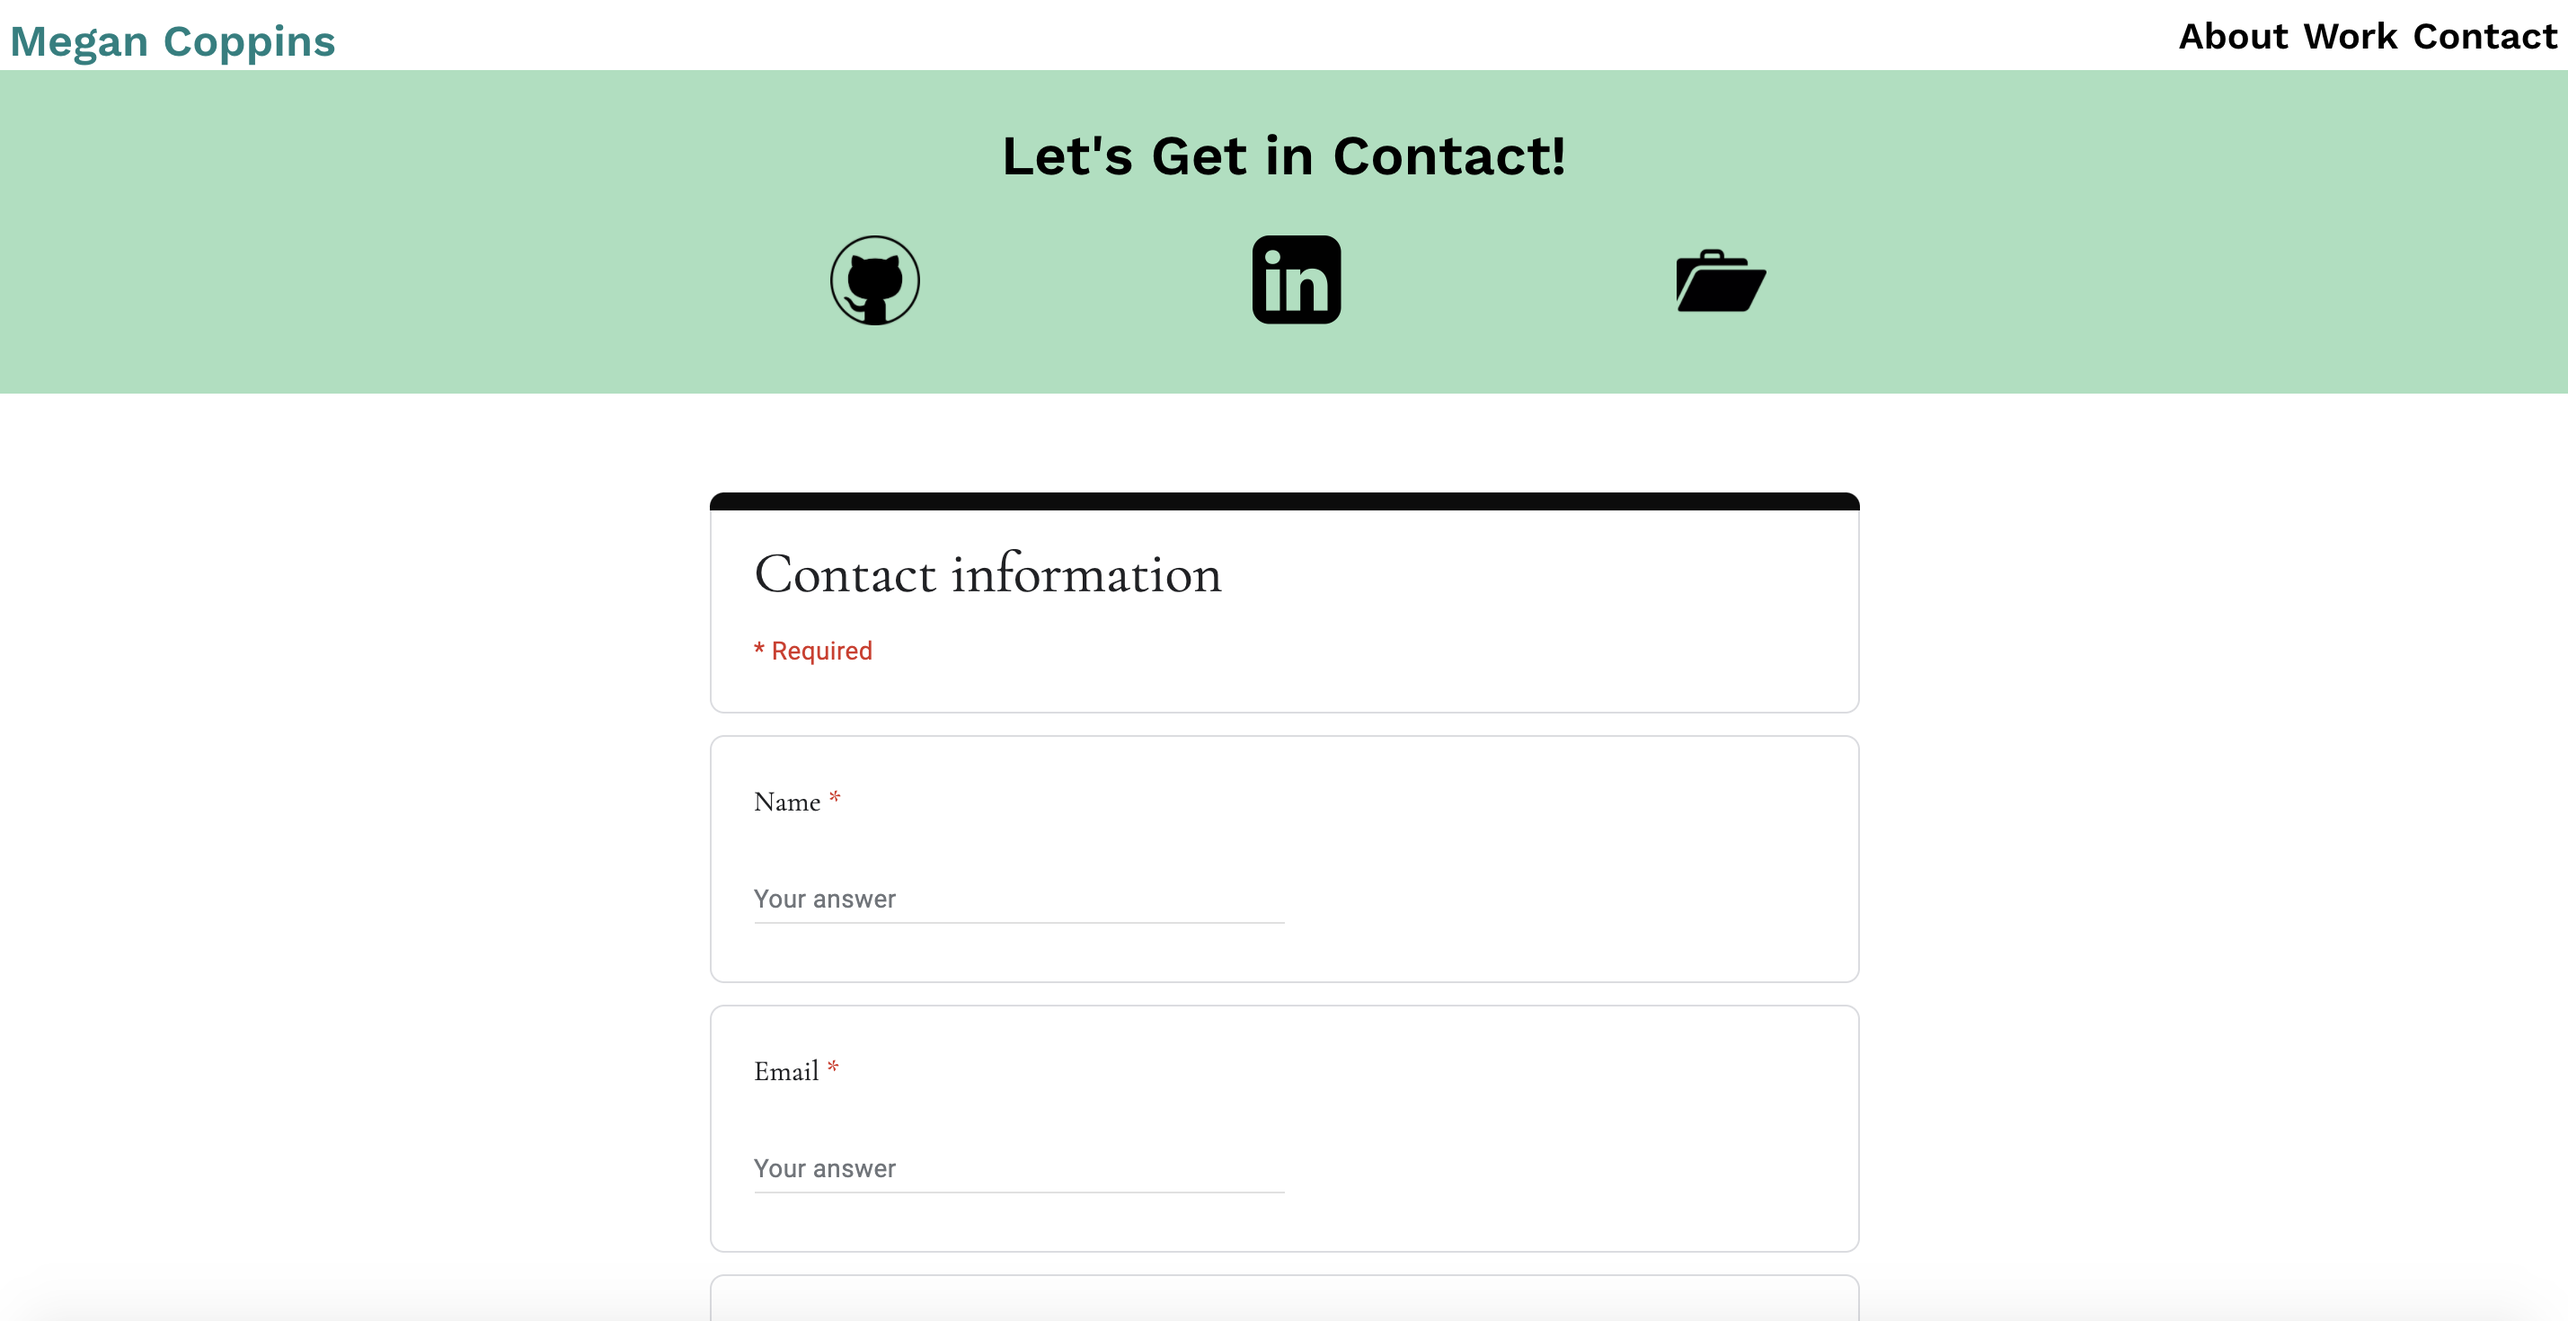
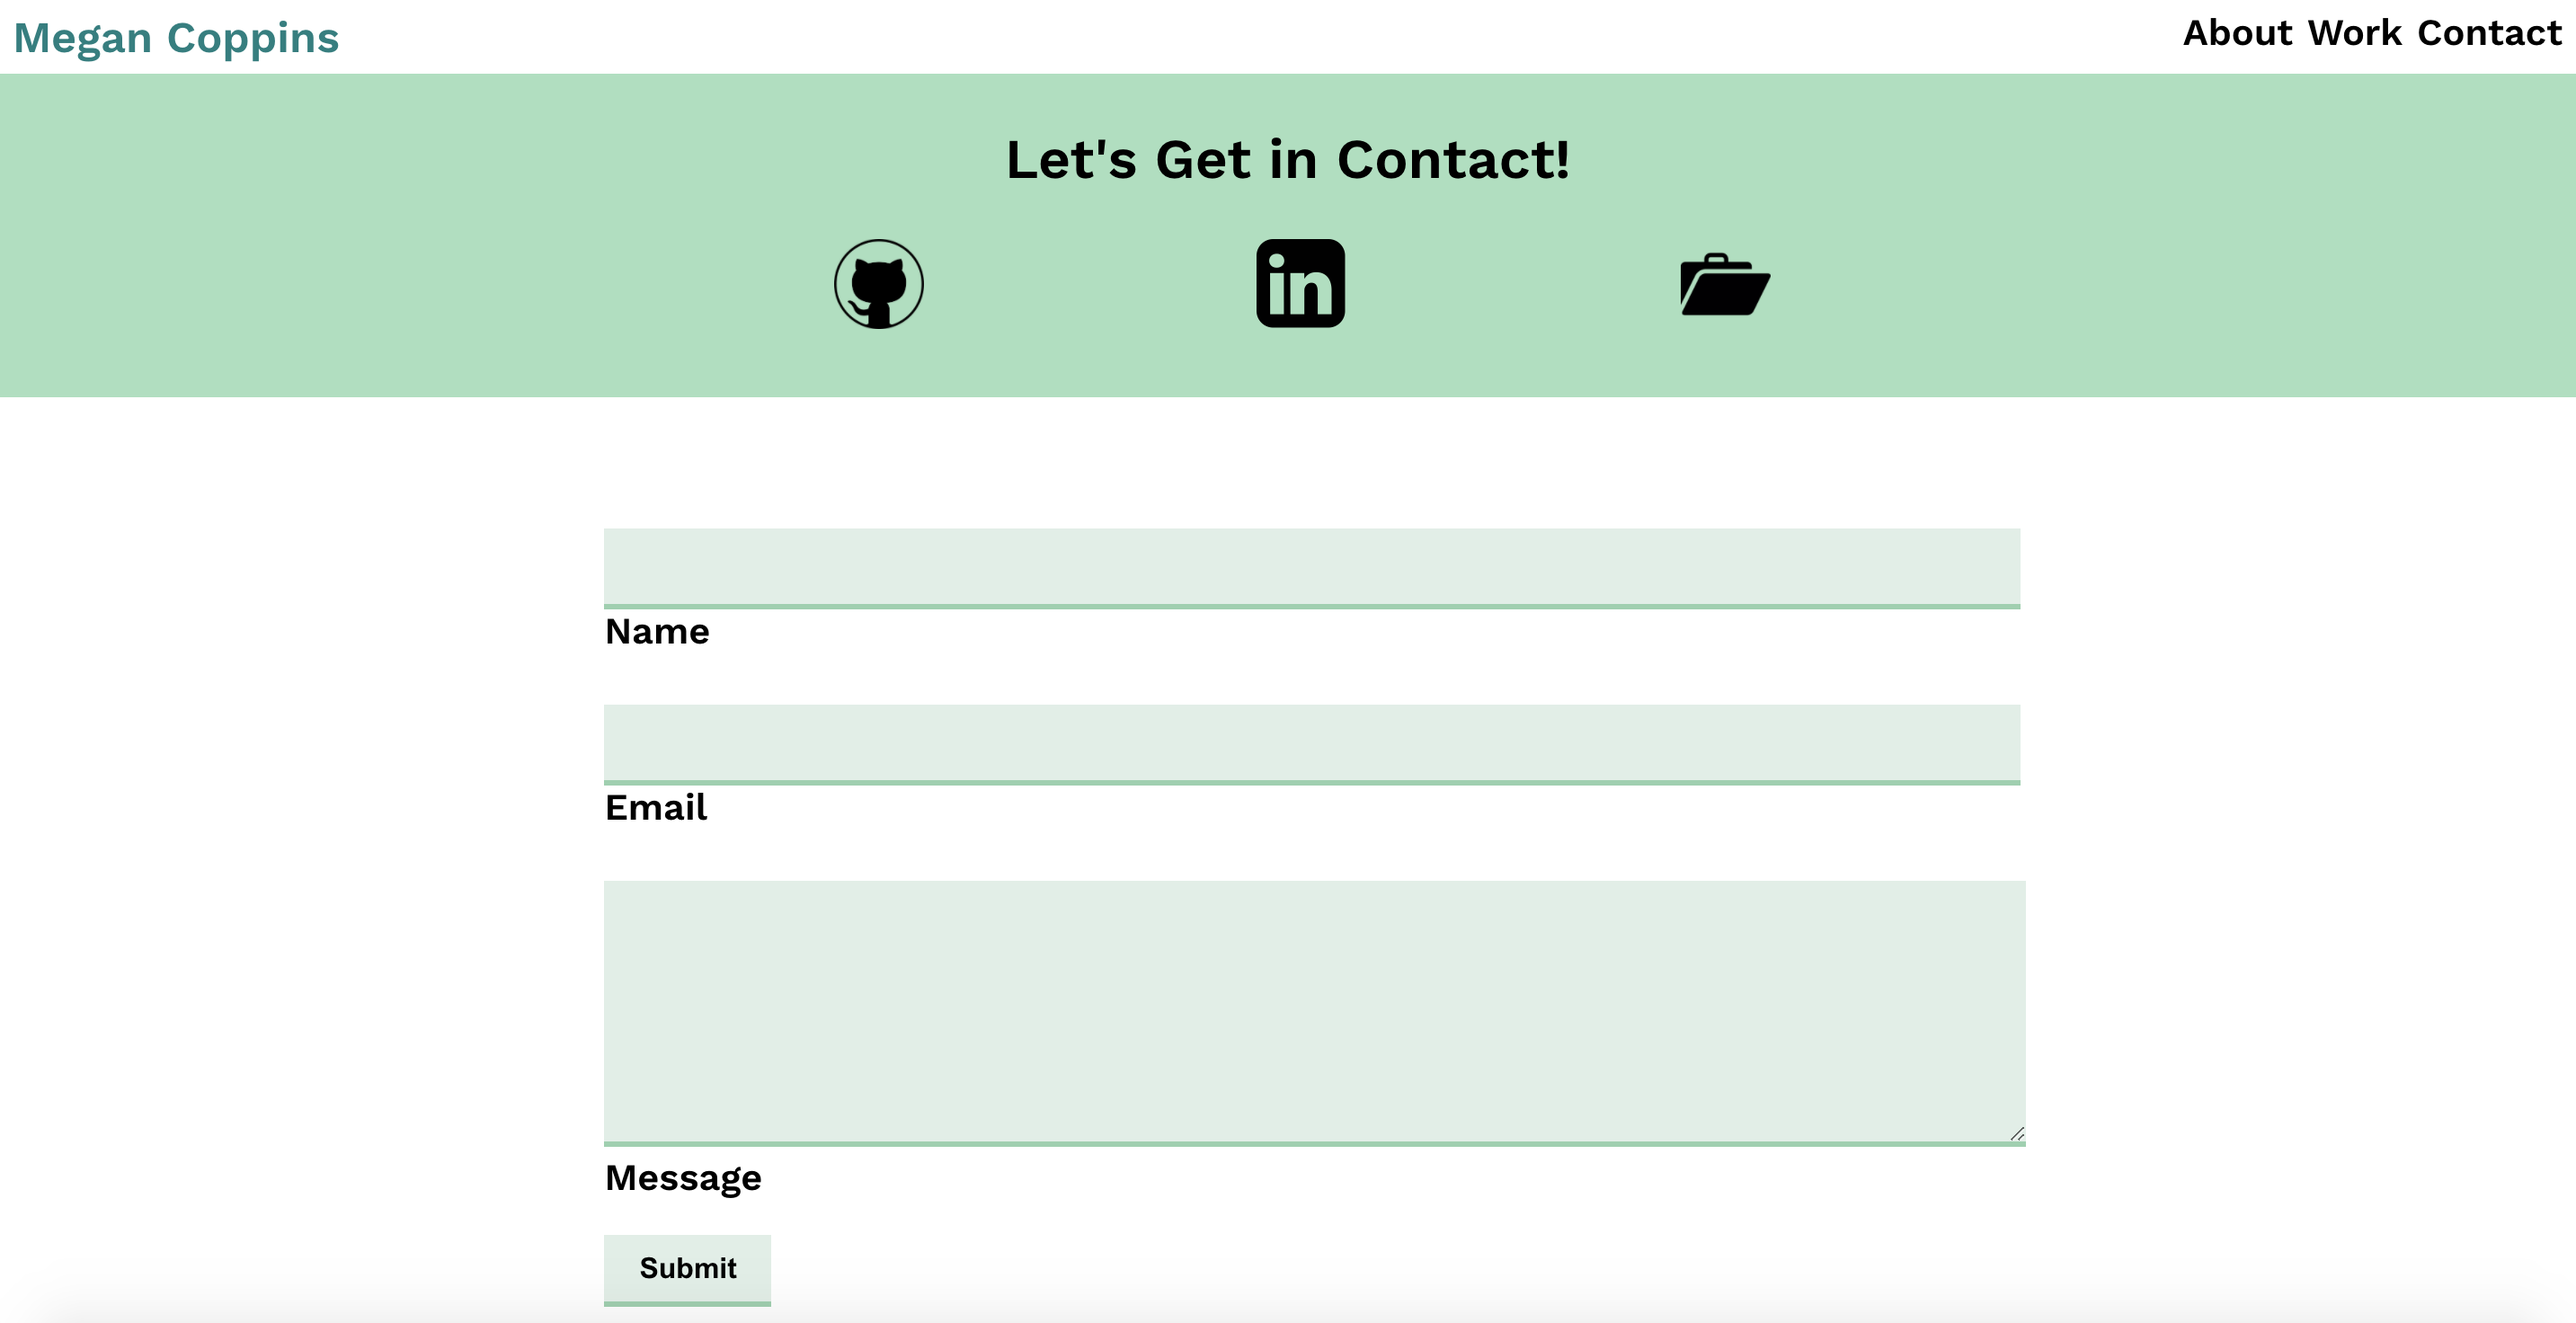
updated readme images

diff --git a/src/components/myform.js b/src/components/myform.js
@@ -13,20 +13,25 @@ export default class MyForm extends React.Component {
   render() {
     const { status } = this.state;
     return (
-      <div
-        className="col-md-4"
-        style={{
-          display: "block",
-          margin: "5% 10%",
-          width: "90%",
-          height: "100%",
-        }}
-      >
+    //   <div
+    //     className="col-md-4"
+    //     style={{
+    //       display: "block",
+    //       margin: "5% 10%",
+    //       width: "90%",
+    //       height: "100%",
+    //     }}
+    //   >
         <form
           onSubmit={this.submitForm}
           action="https://formspree.io/mpzyybne"
           method="POST"
-          style={{ height: 800 }}
+          id="contactForm"
+          style={{
+            margin: "3% 10%",
+            // width: "90%",
+            height: 800,
+          }}
         >
           <input type="name" name="name" className="contactInput" />
           <br />
@@ -53,7 +58,7 @@ export default class MyForm extends React.Component {
           )}
           {status === "ERROR" && <p>Ooops! There was an error.</p>}
         </form>
-      </div>
+    //   </div>
     );
   }
 

diff --git a/src/components/myform.css b/src/components/myform.css
@@ -13,11 +13,20 @@ input:focus, textarea {
     outline: none ! important; 
 } 
 #submitBtn {
-    margin-top: 4%;
+    margin-top: 2%;
     padding: 1% 2%;
     border: none;
     border-bottom: 3px solid rgb(147, 209, 173);
     background: rgba(219, 236, 227, 0.878);
     font-weight: bold;
     font-size: 16px;
+}
+#submitBtn:focus {
+    outline: none!important;
+}
+@media screen and (max-width: 800px){
+    #contactForm{
+        margin: 0;
+        width: 100%;
+    }
 }

diff --git a/src/style/style.css b/src/style/style.css
@@ -5,7 +5,7 @@
 #intro {
   text-align: center;
   margin-top: 5%;
-  height: 310px;
+  height: 270px;
 }
 #intro h1 {
     margin-top: 1%;
@@ -13,7 +13,7 @@
 #developer {
   text-align: center;
   background: lavender;
-  height: 380px;
+  height: 390px;
   justify-content: center;
 }
 #developer h1 {
